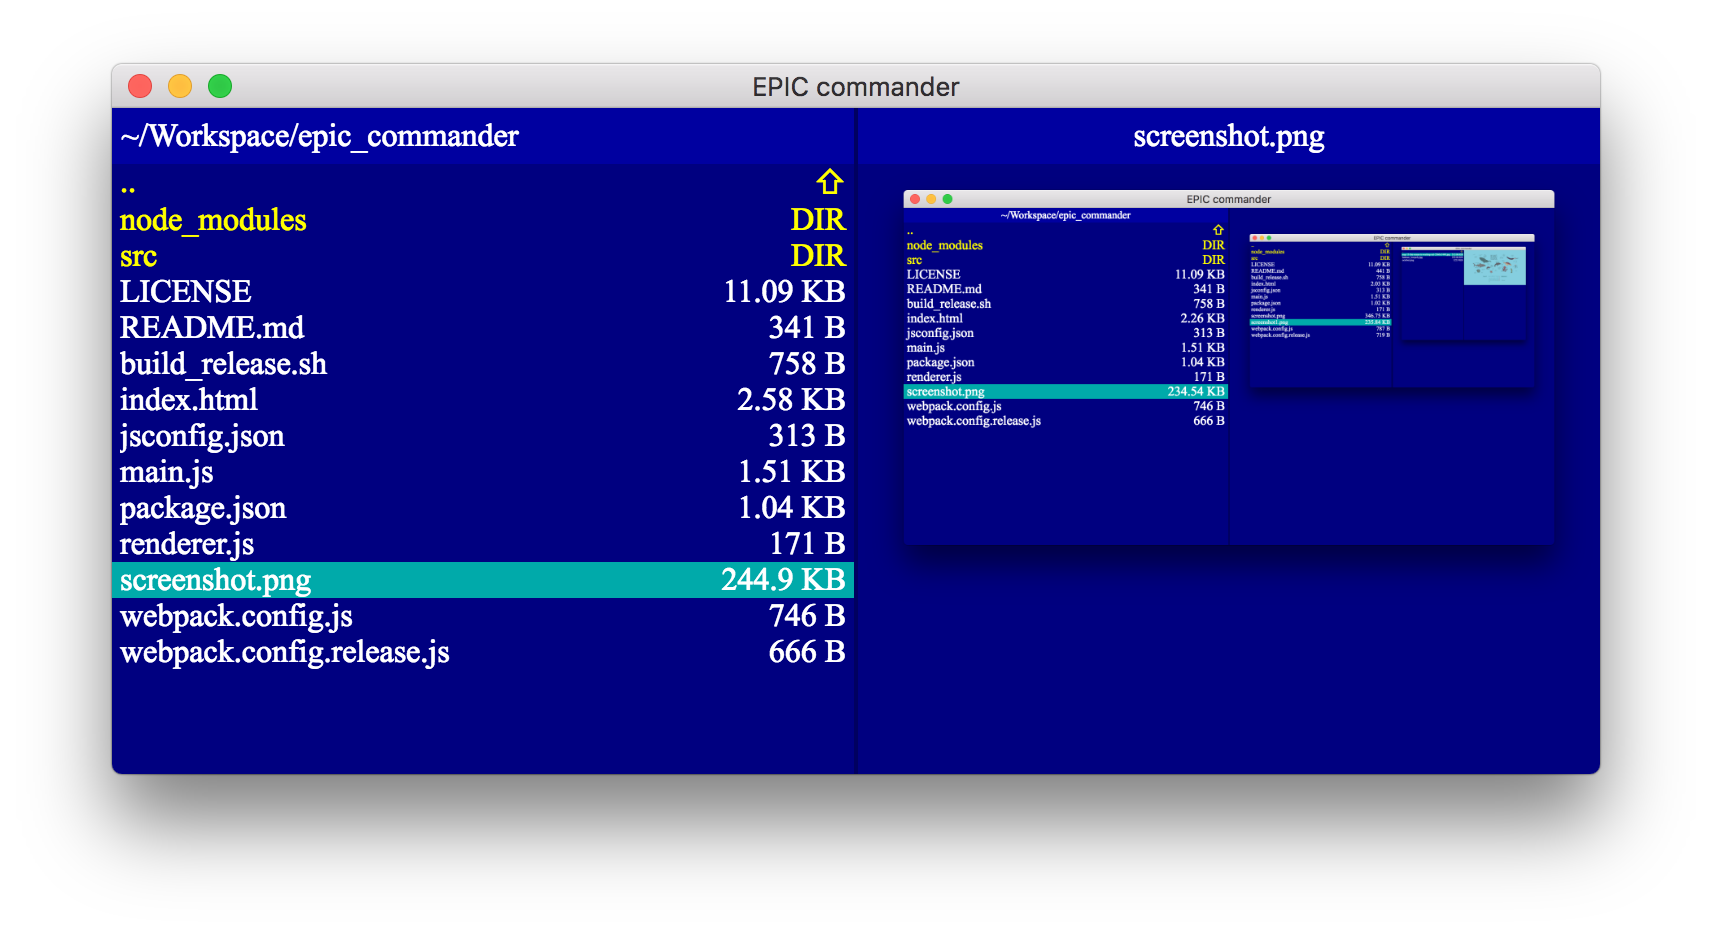
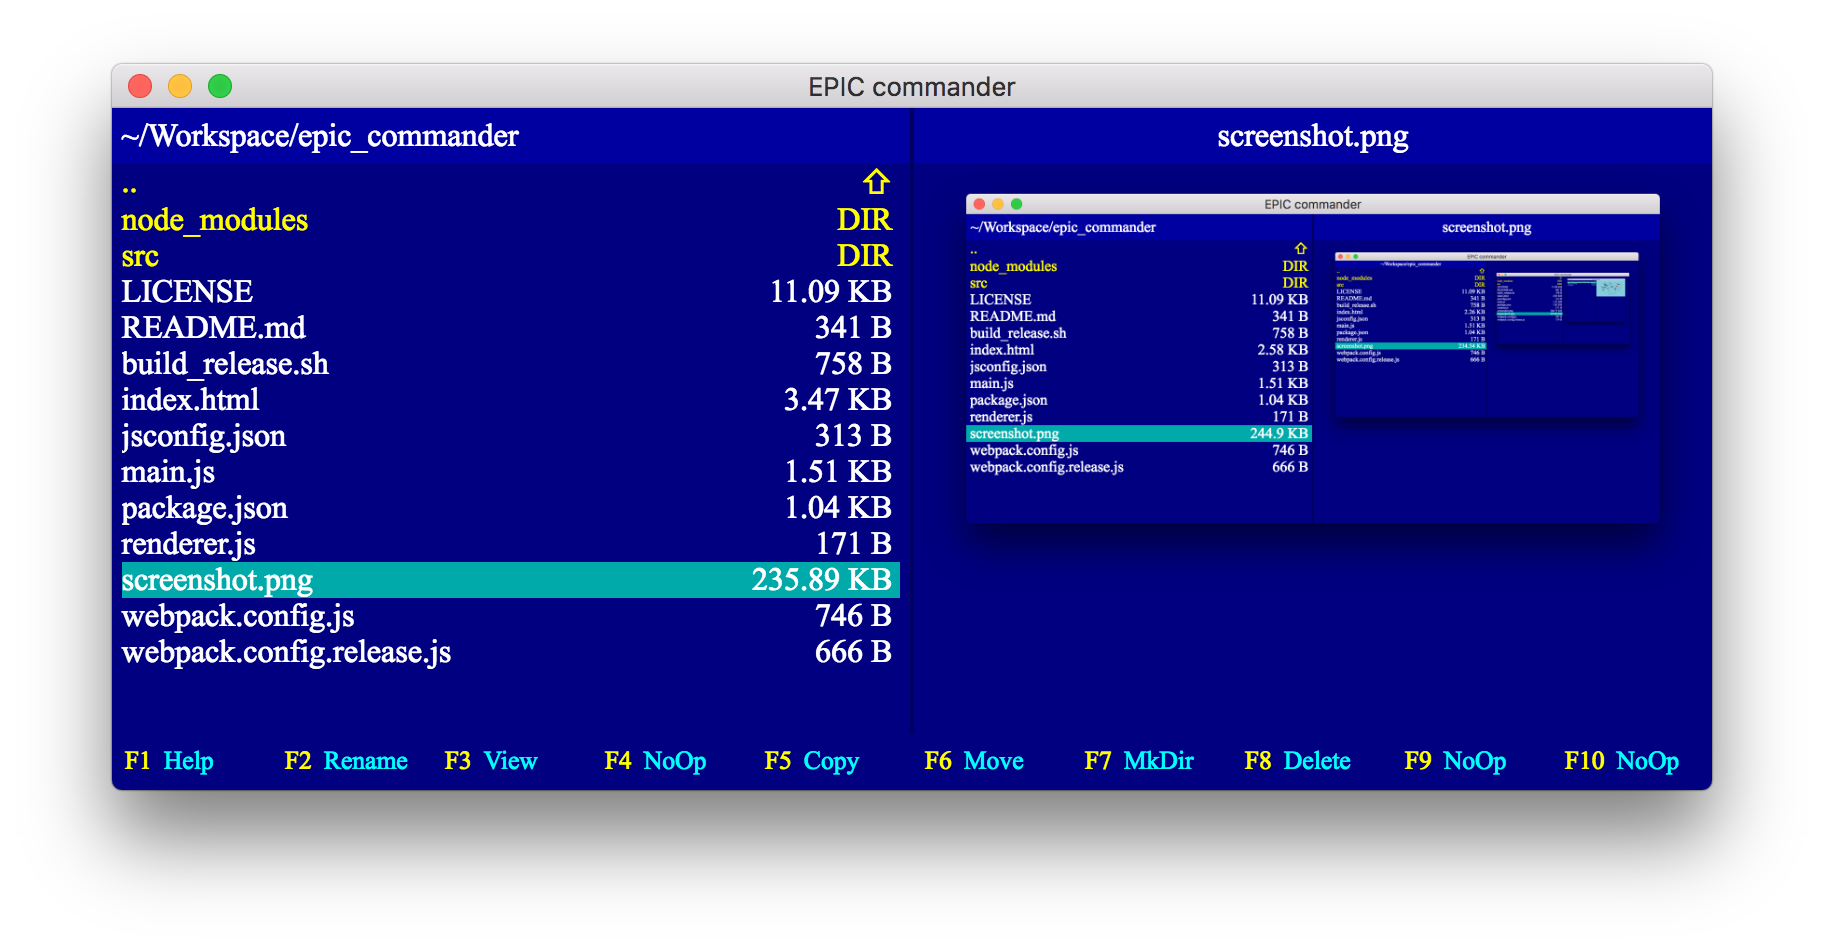
Added bottom command menu.

Changed region(s): [[0.0619, 0.0621, 0.9597, 0.8383]]

diff --git a/src/actions/keyboard.js b/src/actions/keyboard.js
@@ -11,6 +11,16 @@ export const KEY_SPACE = 'KEY_SPACE';
 export const KEY_H = 'KEY_H';
 export const KEY_P = 'KEY_P';
 export const KEY_Z = 'KEY_Z';
+export const KEY_F1 = 'KEY_F1';
+export const KEY_F2 = 'KEY_F2';
+export const KEY_F3 = 'KEY_F3';
+export const KEY_F4 = 'KEY_F4';
+export const KEY_F5 = 'KEY_F5';
+export const KEY_F6 = 'KEY_F6';
+export const KEY_F7 = 'KEY_F7';
+export const KEY_F8 = 'KEY_F8';
+export const KEY_F9 = 'KEY_F9';
+export const KEY_F10 = 'KEY_F10';
 
 export function keyPress(e) {
     let action = { type: 'unknown' };
@@ -27,6 +37,16 @@ export function keyPress(e) {
     else if (key === 'KeyH') action.type = KEY_H;
     else if (key === 'KeyP') action.type = KEY_P;
     else if (key === 'KeyZ') action.type = KEY_Z;
+    else if (key === 'F1') action.type = KEY_F1;
+    else if (key === 'F2') action.type = KEY_F2;
+    else if (key === 'F3') action.type = KEY_F3;
+    else if (key === 'F4') action.type = KEY_F4;
+    else if (key === 'F5') action.type = KEY_F5;
+    else if (key === 'F6') action.type = KEY_F6;
+    else if (key === 'F7') action.type = KEY_F7;
+    else if (key === 'F8') action.type = KEY_F8;
+    else if (key === 'F9') action.type = KEY_F9;
+    else if (key === 'F10') action.type = KEY_F10;
 
     if(action.type !== 'unknown') {
         e.preventDefault();

diff --git a/index.html b/index.html
@@ -103,6 +103,8 @@
         .panel .row {
             color: white;
             display: flex;
+            margin-left: 0.3em;
+            margin-right: 0.3em;
         }
 
         .panel .dir {
@@ -115,7 +117,6 @@
 
         .panel .row .column_title {
             flex: 1;
-            margin-left: 0.25em;
 
             /* dont wrap text */
             white-space: nowrap;
@@ -130,6 +131,33 @@
         .footer {
             display: flex;
             flex: 0.05;
+        }
+
+        .bottom_menu {
+            display: flex;
+            font-size: 0.8em;
+        }
+
+        .bottom_menu_item {
+            flex: 1;
+            padding-top: 0.5em;
+            padding-bottom: 0.5em;
+            padding-left: 0.5em;
+            /*border-right: thin solid blue;*/
+        }
+
+        .bottom_menu_item .key {
+            color: yellow;
+        }
+
+        .bottom_menu_item .label {
+            padding-left: 0.5em;
+            color: cyan;
+        }
+
+        .horizontal_separator {
+            background: #000060;
+            height: 2px;
         }
 
         .center_text {

diff --git a/src/components/BottomMenu.js b/src/components/BottomMenu.js
@@ -1,0 +1,25 @@
+import { h, Component } from 'preact';
+import { connect } from 'preact-redux';
+import { homedir } from 'os';
+
+import BottomMenuItem from './BottomMenuItem';
+import Container from './Container';
+
+export default class BottomMenu extends Component {
+    render() {        
+        return (
+            <Container className="bottom_menu">
+                <BottomMenuItem keyLabel="F1" title="Help" onClick={ () => { alert('f1') } } />
+                <BottomMenuItem keyLabel="F2" title="Rename" />
+                <BottomMenuItem keyLabel="F3" title="View" />
+                <BottomMenuItem keyLabel="F4" title="NoOp" />
+                <BottomMenuItem keyLabel="F5" title="Copy" />
+                <BottomMenuItem keyLabel="F6" title="Move" />
+                <BottomMenuItem keyLabel="F7" title="MkDir" />
+                <BottomMenuItem keyLabel="F8" title="Delete" />
+                <BottomMenuItem keyLabel="F9" title="NoOp" />
+                <BottomMenuItem keyLabel="F10" title="NoOp" />
+            </Container>
+        );
+    }
+}

diff --git a/src/reducers/reducer.js b/src/reducers/reducer.js
@@ -1,5 +1,6 @@
 import { PANEL_LOAD_CONTENT, PANEL_SET_ACTIVE_RECORD, PANEL_TOGGLE_SHOW_HIDDEN_FILES } from '../actions/panels';
 import { KEY_UP, KEY_DOWN, KEY_LEFT, KEY_RIGHT, KEY_HOME, KEY_END, KEY_TAB, KEY_ENTER, KEY_SPACE, KEY_H, KEY_P, KEY_Z } from '../actions/keyboard';
+import { KEY_F1, KEY_F2, KEY_F3, KEY_F4, KEY_F5, KEY_F6, KEY_F7, KEY_F8, KEY_F9, KEY_F10  } from '../actions/keyboard';
 
 import FileUtils from '../utils/FileUtils';
 
@@ -69,6 +70,19 @@ export default function (state = initialState, action) {
 
         case KEY_SPACE:
             return toggleRecordIsSelected(state);
+
+        case KEY_F1:
+        case KEY_F2:
+        case KEY_F3:
+        case KEY_F4:
+        case KEY_F5:
+        case KEY_F6:
+        case KEY_F7:
+        case KEY_F8:
+        case KEY_F9:
+        case KEY_F10:
+            alert('Not implemented.');
+            return state;
     }
     return state;
 }

diff --git a/src/components/App.js b/src/components/App.js
@@ -5,6 +5,7 @@ import createStore from '../stores/store';
 
 import AddressBar from './AddressBar';
 import BottomBar from './BottomBar';
+import BottomMenu from './BottomMenu';
 import Container from './Container';
 import Window from './Window';
 
@@ -14,7 +15,7 @@ let store = createStore();
 
 document.addEventListener('keydown', (e) => { store.dispatch(keyPress(e)) });
 
-export default class App extends Component {    
+export default class App extends Component {
     render() {
         return (
             <Provider store={ store }>
@@ -22,8 +23,9 @@ export default class App extends Component {
                     <AddressBar />
                     <Window />
                     <BottomBar />
+                    <BottomMenu />
                 </Container>
             </Provider>
-        )
+        );
     }
 }

diff --git a/src/components/BottomMenuItem.js b/src/components/BottomMenuItem.js
@@ -1,0 +1,14 @@
+import { h, Component } from 'preact';
+
+import Container from './Container';
+
+export default class BottomMenuItem extends Component {
+    render() {
+        return (
+            <Container className="bottom_menu_item" onClick={ this.props.onClick }>
+                <span className="key">{this.props.keyLabel}</span> 
+                <span className="label">{ this.props.title }</span>
+            </Container>
+        );
+    }
+}
